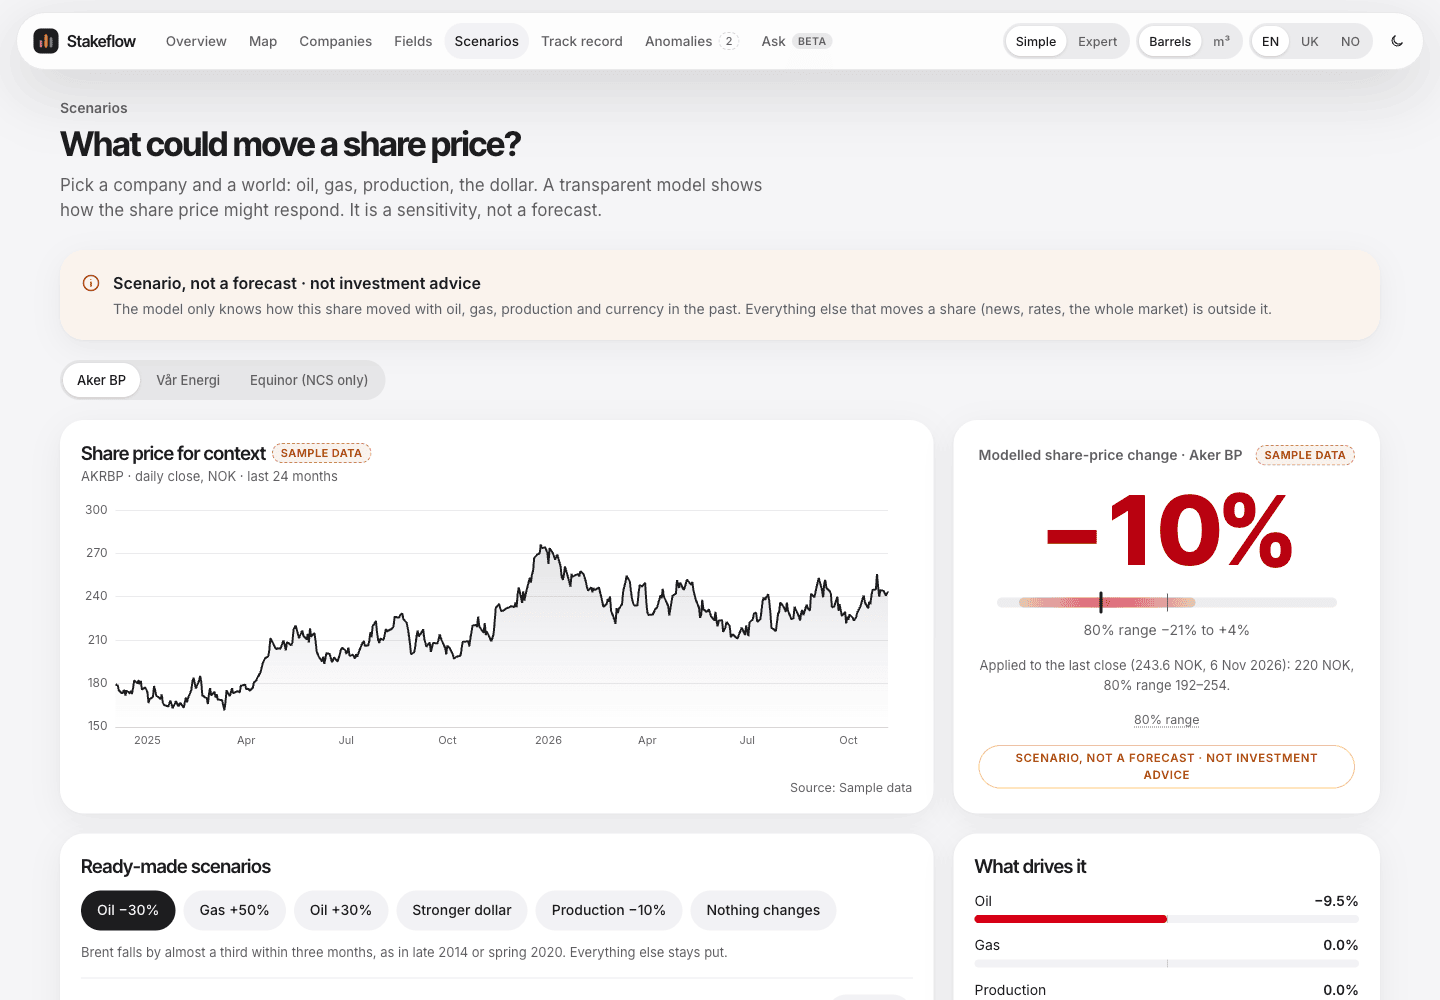
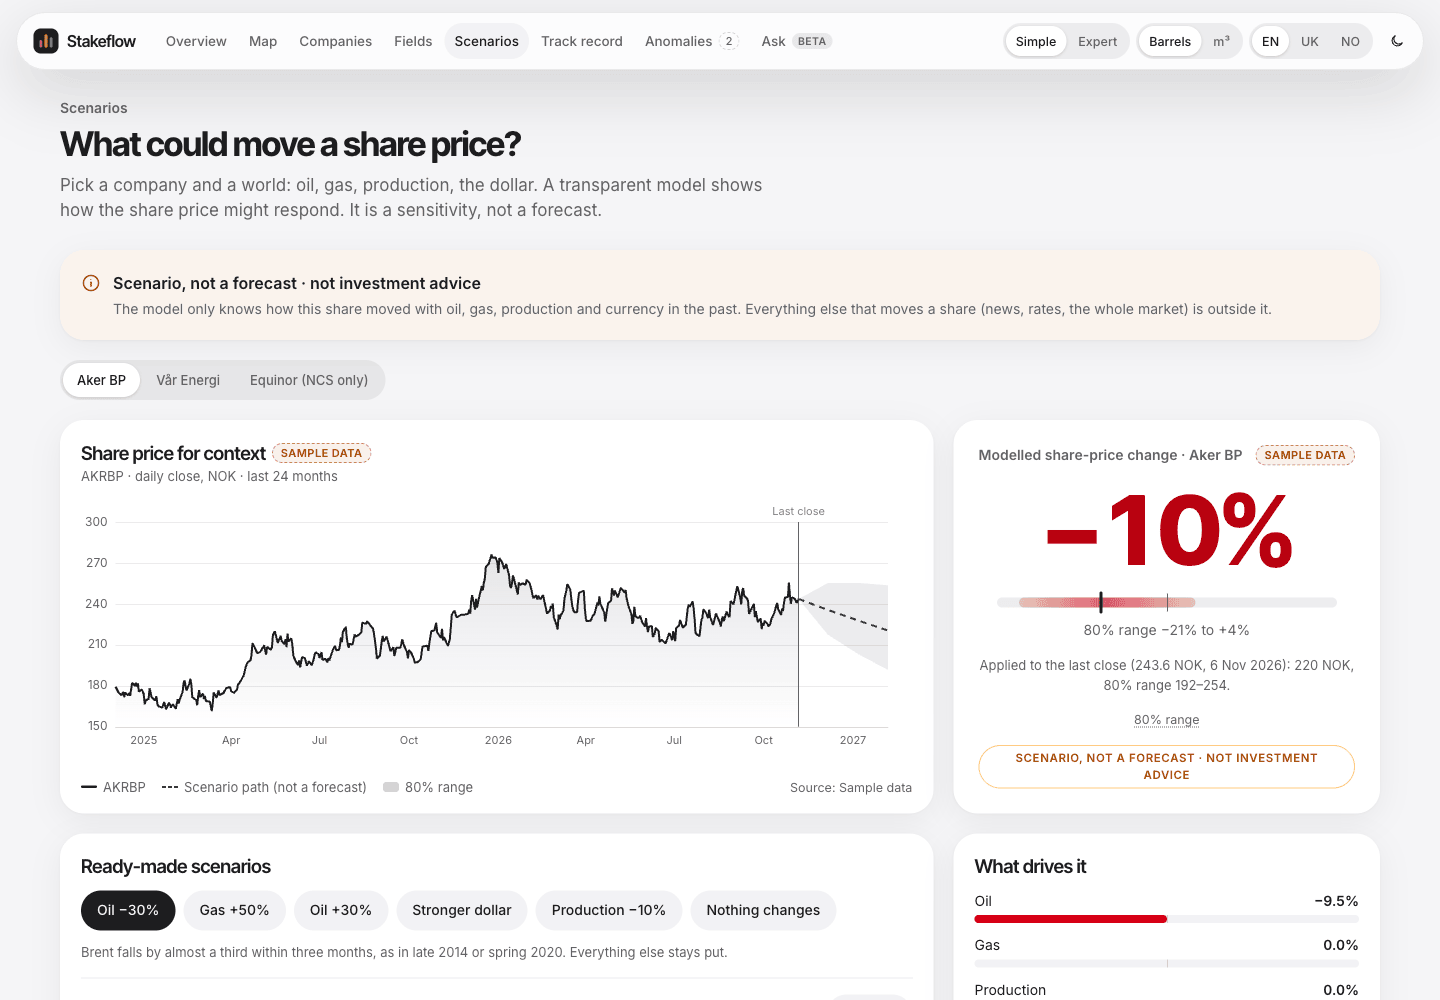
docs(frontend): describe the localised map labels and the scenario path
The README said nothing about basemap label languages or what the dashed
line on the share-price chart is. The four Scenarios screenshots are
retaken in mocks mode (sample data, 1440 x 1000 and 390 x 844, reduced
motion, pngquant), because real share prices may not be published.

diff --git a/frontend/README.md b/frontend/README.md
@@ -91,16 +91,16 @@ real carries a dashed amber **Sample data** badge, and the footer says which par
   model there, and Ask is a preview (no server).
 - **Mocks** (`VITE_USE_MOCKS=true`, tests and CI): everything is deterministic sample data.
 
-| Screen                          | Live API                                                                                                                                                                                                                                 | Static demo                                                |
-| ------------------------------- | ---------------------------------------------------------------------------------------------------------------------------------------------------------------------------------------------------------------------------------------- | ---------------------------------------------------------- |
-| Landing `/`                     | Shelf total and its 24 months, state share, gas, largest fields, the company race, the reconciliation record, Brent (daily, 3 months, EIA) and TTF (monthly averages, World Bank), recent anomalies, the scenario teaser (Aker BP model) | All real except the scenario teaser (sample)               |
-| Field map `/map`, Fields        | Field centroids and outlines, production, owners, history, the shelf timeline                                                                                                                                                            | Real                                                       |
-| Field detail `/fields/:id`      | History by product, plateau, owners, facts, monthly table; the forecast with its 80% range and model card (decline curve, or held flat on plateau, ramp-up or a young field), backtest error next to the simple guess                    | Real (every field with a model card)                       |
-| Company detail `/companies/:id` | Net production by field, product rings, Sodir vs reported, the quarter nowcast and its range, nowcast vs reported (past quarters are backtests), the revenue estimate at the latest Brent, TTF and EUR/USD                               | Real, frozen at the snapshot                               |
-| Scenarios `/scenarios`          | Share prices from the user's own Euronext import (local only), the fitted model (R², adjusted R², window, coefficients, backtest), its answer with the backend's band, caveats and notice, the presets                                   | Sample (badged): share prices, model and answers           |
-| Track record `/track-record`    | Reconciliation; live predictions and backtests scored apart, never pooled; accuracy over time; the prediction log and its CSV, with links to the committed file of each quarter-end live prediction                                      | Real, frozen at the snapshot                               |
-| Anomalies `/anomalies`          | The latest detector run: every flagged field-month, its band and the effect on each owner. Status and notes are yours and stay in the browser tab                                                                                        | Real                                                       |
-| Ask `/ask` (beta)               | AI answers with the SQL that ran; without an AI key, prepared examples (badged) say why. Table catalogue from `/ask/tables`                                                                                                              | Prepared examples (badged); their SQL and numbers are real |
+| Screen                          | Live API                                                                                                                                                                                                                                             | Static demo                                                |
+| ------------------------------- | ---------------------------------------------------------------------------------------------------------------------------------------------------------------------------------------------------------------------------------------------------- | ---------------------------------------------------------- |
+| Landing `/`                     | Shelf total and its 24 months, state share, gas, largest fields, the company race, the reconciliation record, Brent (daily, 3 months, EIA) and TTF (monthly averages, World Bank), recent anomalies, the scenario teaser (Aker BP model)             | All real except the scenario teaser (sample)               |
+| Field map `/map`, Fields        | Field centroids and outlines, production, owners, history, the shelf timeline                                                                                                                                                                        | Real                                                       |
+| Field detail `/fields/:id`      | History by product, plateau, owners, facts, monthly table; the forecast with its 80% range and model card (decline curve, or held flat on plateau, ramp-up or a young field), backtest error next to the simple guess                                | Real (every field with a model card)                       |
+| Company detail `/companies/:id` | Net production by field, product rings, Sodir vs reported, the quarter nowcast and its range, nowcast vs reported (past quarters are backtests), the revenue estimate at the latest Brent, TTF and EUR/USD                                           | Real, frozen at the snapshot                               |
+| Scenarios `/scenarios`          | Share prices from the user's own Euronext import (local only), the fitted model (R², adjusted R², window, coefficients, backtest), its answer with the backend's band, caveats and notice, the scenario path drawn after the last close, the presets | Sample (badged): share prices, model and answers           |
+| Track record `/track-record`    | Reconciliation; live predictions and backtests scored apart, never pooled; accuracy over time; the prediction log and its CSV, with links to the committed file of each quarter-end live prediction                                                  | Real, frozen at the snapshot                               |
+| Anomalies `/anomalies`          | The latest detector run: every flagged field-month, its band and the effect on each owner. Status and notes are yours and stay in the browser tab                                                                                                    | Real                                                       |
+| Ask `/ask` (beta)               | AI answers with the SQL that ran; without an AI key, prepared examples (badged) say why. Table catalogue from `/ask/tables`                                                                                                                          | Prepared examples (badged); their SQL and numbers are real |
 
 ### Rules the UI keeps
 
@@ -111,6 +111,9 @@ real carries a dashed amber **Sample data** badge, and the footer says which par
   to assumptions the reader picks, with the model's fit (R², window, observations), its
   coefficients, an 80% range and a "Scenario, not a forecast · not investment advice" notice.
   The AI step only turns free text into the five parameters; the model computes the numbers.
+  The share-price chart continues past the last close with the scenario's month-by-month path
+  as a dashed line inside its 80% range; the legend, the tooltip and the chart's summary all
+  call it "Scenario path (not a forecast)".
 - **Nowcast framing:** forecasts are frozen at quarter end and scored against the company's first
   publication. See `docs/nowcast-feasibility.md`.
 - The revenue estimate is volume × price with the formula on screen, sold vs produced and the
@@ -134,7 +137,10 @@ The scenario explorer uses the backend's parameter contract, in camelCase in the
 and `parseScenario(text, { companyId, reference })`; the parser gets today's Brent, TTF and
 EUR/USD from `/prices/latest`, so "oil at $90" becomes a percentage it can explain. Types in
 `api/types.scenario.ts`, sample implementations in `api/mock/scenario.ts`. The page shows the
-backend's band, caveats and notice as they are and never recomputes them. A 503 from
+backend's band, caveats and notice as they are and never recomputes them. The answer carries a
+`path` (the change and its 80% range after 1…`horizonMonths` months); `scenarioProjection()`
+in `lib/scenario.ts` applies it to the last close, one point per calendar month, and
+`charts/sharePriceOption.ts` draws it. A 503 from
 `parseScenario` reads "AI is not configured on this server" (code `llm_not_configured`) or "The
 AI did not answer", with the ready-made scenarios next to it.
 
@@ -165,7 +171,10 @@ src/
   Each chart has a `role="img"` summary and a table alternative.
 - **Map.** OpenFreeMap `dark` (deepened to a night-sky palette at runtime) and `positron`. Each
   field is two circle layers, a blurred halo under a crisp core, radius ∝ √production, colour =
-  oil share; localized sea names; `lib/mapScale.ts` keeps map and legend in step. The
+  oil share; localized sea names; `lib/mapScale.ts` keeps map and legend in step. Basemap
+  place and water names follow the app language (`lib/mapLabels.ts` points every name label at
+  the tiles' `name:en`, `name:uk` or `name:no`, then any Latin name; the stock styles print
+  the local script under the Latin name, so Russian towns came out in Cyrillic). The
   "Fields by production" list is the keyboard and screen-reader way in; the field card closes
   on Escape and returns focus; on phones it becomes a bottom sheet. The timeline scrubs the
   shelf total; the field circles stay at the latest month, and the panel says so.

diff --git a/docs/prices-scenarios-anomalies.md b/docs/prices-scenarios-anomalies.md
@@ -169,4 +169,6 @@ files, except share prices and scenarios, which are never exported.
   percent.
 - Scenario results are shown as the backend computed them (change, 80% band, price, each
   driver's contribution, caveats, notice); the intercept is past drift and is not shown with the
-  sensitivities.
+  sensitivities. `path` is drawn on the share-price chart after the last close: each point's
+  percentages applied to `base.close`, one calendar month apart from `base.date`, as a dashed
+  line with the 80% band, always labelled "Scenario path (not a forecast)".
